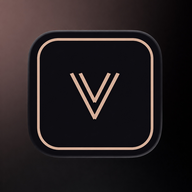
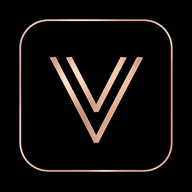
Add files via upload

diff --git a/index.html b/index.html
@@ -3,6 +3,13 @@
 <head>
 <meta charset="UTF-8" />
 <meta name="viewport" content="width=device-width, initial-scale=1.0" />
+<link rel="manifest" href="/manifest.json">
+<meta name="theme-color" content="#d4af7f">
+<meta name="apple-mobile-web-app-capable" content="yes">
+<meta name="apple-mobile-web-app-status-bar-style" content="black-translucent">
+<meta name="apple-mobile-web-app-title" content="Vardophase">
+<link rel="apple-touch-icon" href="/apple-touch-icon.png">
+<link rel="icon" href="/favicon.ico">
 <title>Vardophase Suppliers Cloud Pro</title>
 <style>
 :root{
@@ -21413,6 +21420,9 @@ window.vpGetAllSupplierRows = async function(){
  window.printSelectedCreditNotePDF=async()=>{try{let ids=(typeof window.__vpGetSelectedIds==='function')?window.__vpGetSelectedIds():[];if(!Array.isArray(ids)||ids.length!==1)return alert('Select one Credit Note row, or the original Invoice row that has a Credit Note.');let db=window.__vpDb||window.vpSupabase;if(!db)return alert('Database connection is not ready. Refresh and try again.');let res=await db.from('suppliers').select('*').eq('id',ids[0]).single();if(res.error||!res.data)return alert((res.error&&res.error.message)||'Could not load selected row.');let r=res.data,notes=String(r.notes||'');let tag=n=>{let mm=notes.match(new RegExp('\\[\\['+n+':([\\s\\S]*?)\\]\\]','i'));return mm?String(mm[1]||'').trim():'';};let amt=Math.abs(Number(r.total||r.amount||r.net_amount||tag('CREDITAMOUNT')||tag('CREDIT')||0));if(!amt)return alert('No Credit Note amount found on the selected row.');let cn=String(r.invoice_no||tag('CREDITNO')||tag('LASTCREDITNO')||'CN-DRAFT'),date=tag('CREDITDATE')||tag('LASTCREDITDATE')||(r.created_at?String(r.created_at).slice(0,10):new Date().toISOString().slice(0,10)),inv=tag('PARENTINVOICE')||'',reason=tag('CREDITREASON')||tag('LASTCREDITREASON')||String(r.description||'').replace(/^Credit Note\s*-?\s*/i,'')||'Credit note',vat=Math.abs(Number(r.vat_amount||0)),sub=Math.max(0,amt-vat);openR('Credit Note','Official Accounting Document · '+cn,'<div class="grid"><div class="card"><div class="label">Supplier</div><div class="value">'+esc(r.supplier||'')+'</div></div><div class="card"><div class="label">Date</div><div class="value">'+esc(date)+'</div></div><div class="card"><div class="label">Original Invoice</div><div class="value">'+esc(inv)+'</div></div><div class="card"><div class="label">Order / Project</div><div class="value">'+esc(r.order_no||'')+(r.project?' · '+esc(r.project):'')+'</div></div></div>'+table(['Description','VAT','Credit Amount'],[[reason,m(vat),'-'+m(amt)]])+cards([['Subtotal','-'+m(sub)],['VAT','-'+m(vat)],['Total Credit','-'+m(amt)]])+'<div class="note"><b>Accounting note:</b> This credit note is linked to the original invoice. It reduces the net payable amount for that invoice and does not create a free supplier credit balance.</div>');}catch(e){alert((e&&e.message)?e.message:'Credit Note PDF error');}};
 })();
 
+</script>
+<script>
+(function(){if("serviceWorker" in navigator && location.protocol !== "file:"){window.addEventListener("load",function(){navigator.serviceWorker.register("/sw.js").catch(function(e){console.warn("SW registration failed",e);});});}})();
 </script>
 </body>
 </html>

diff --git a/sw.js b/sw.js
@@ -1,0 +1,3 @@
+self.addEventListener('install',e=>self.skipWaiting());
+self.addEventListener('activate',e=>e.waitUntil(self.clients.claim()));
+self.addEventListener('fetch',e=>{});
